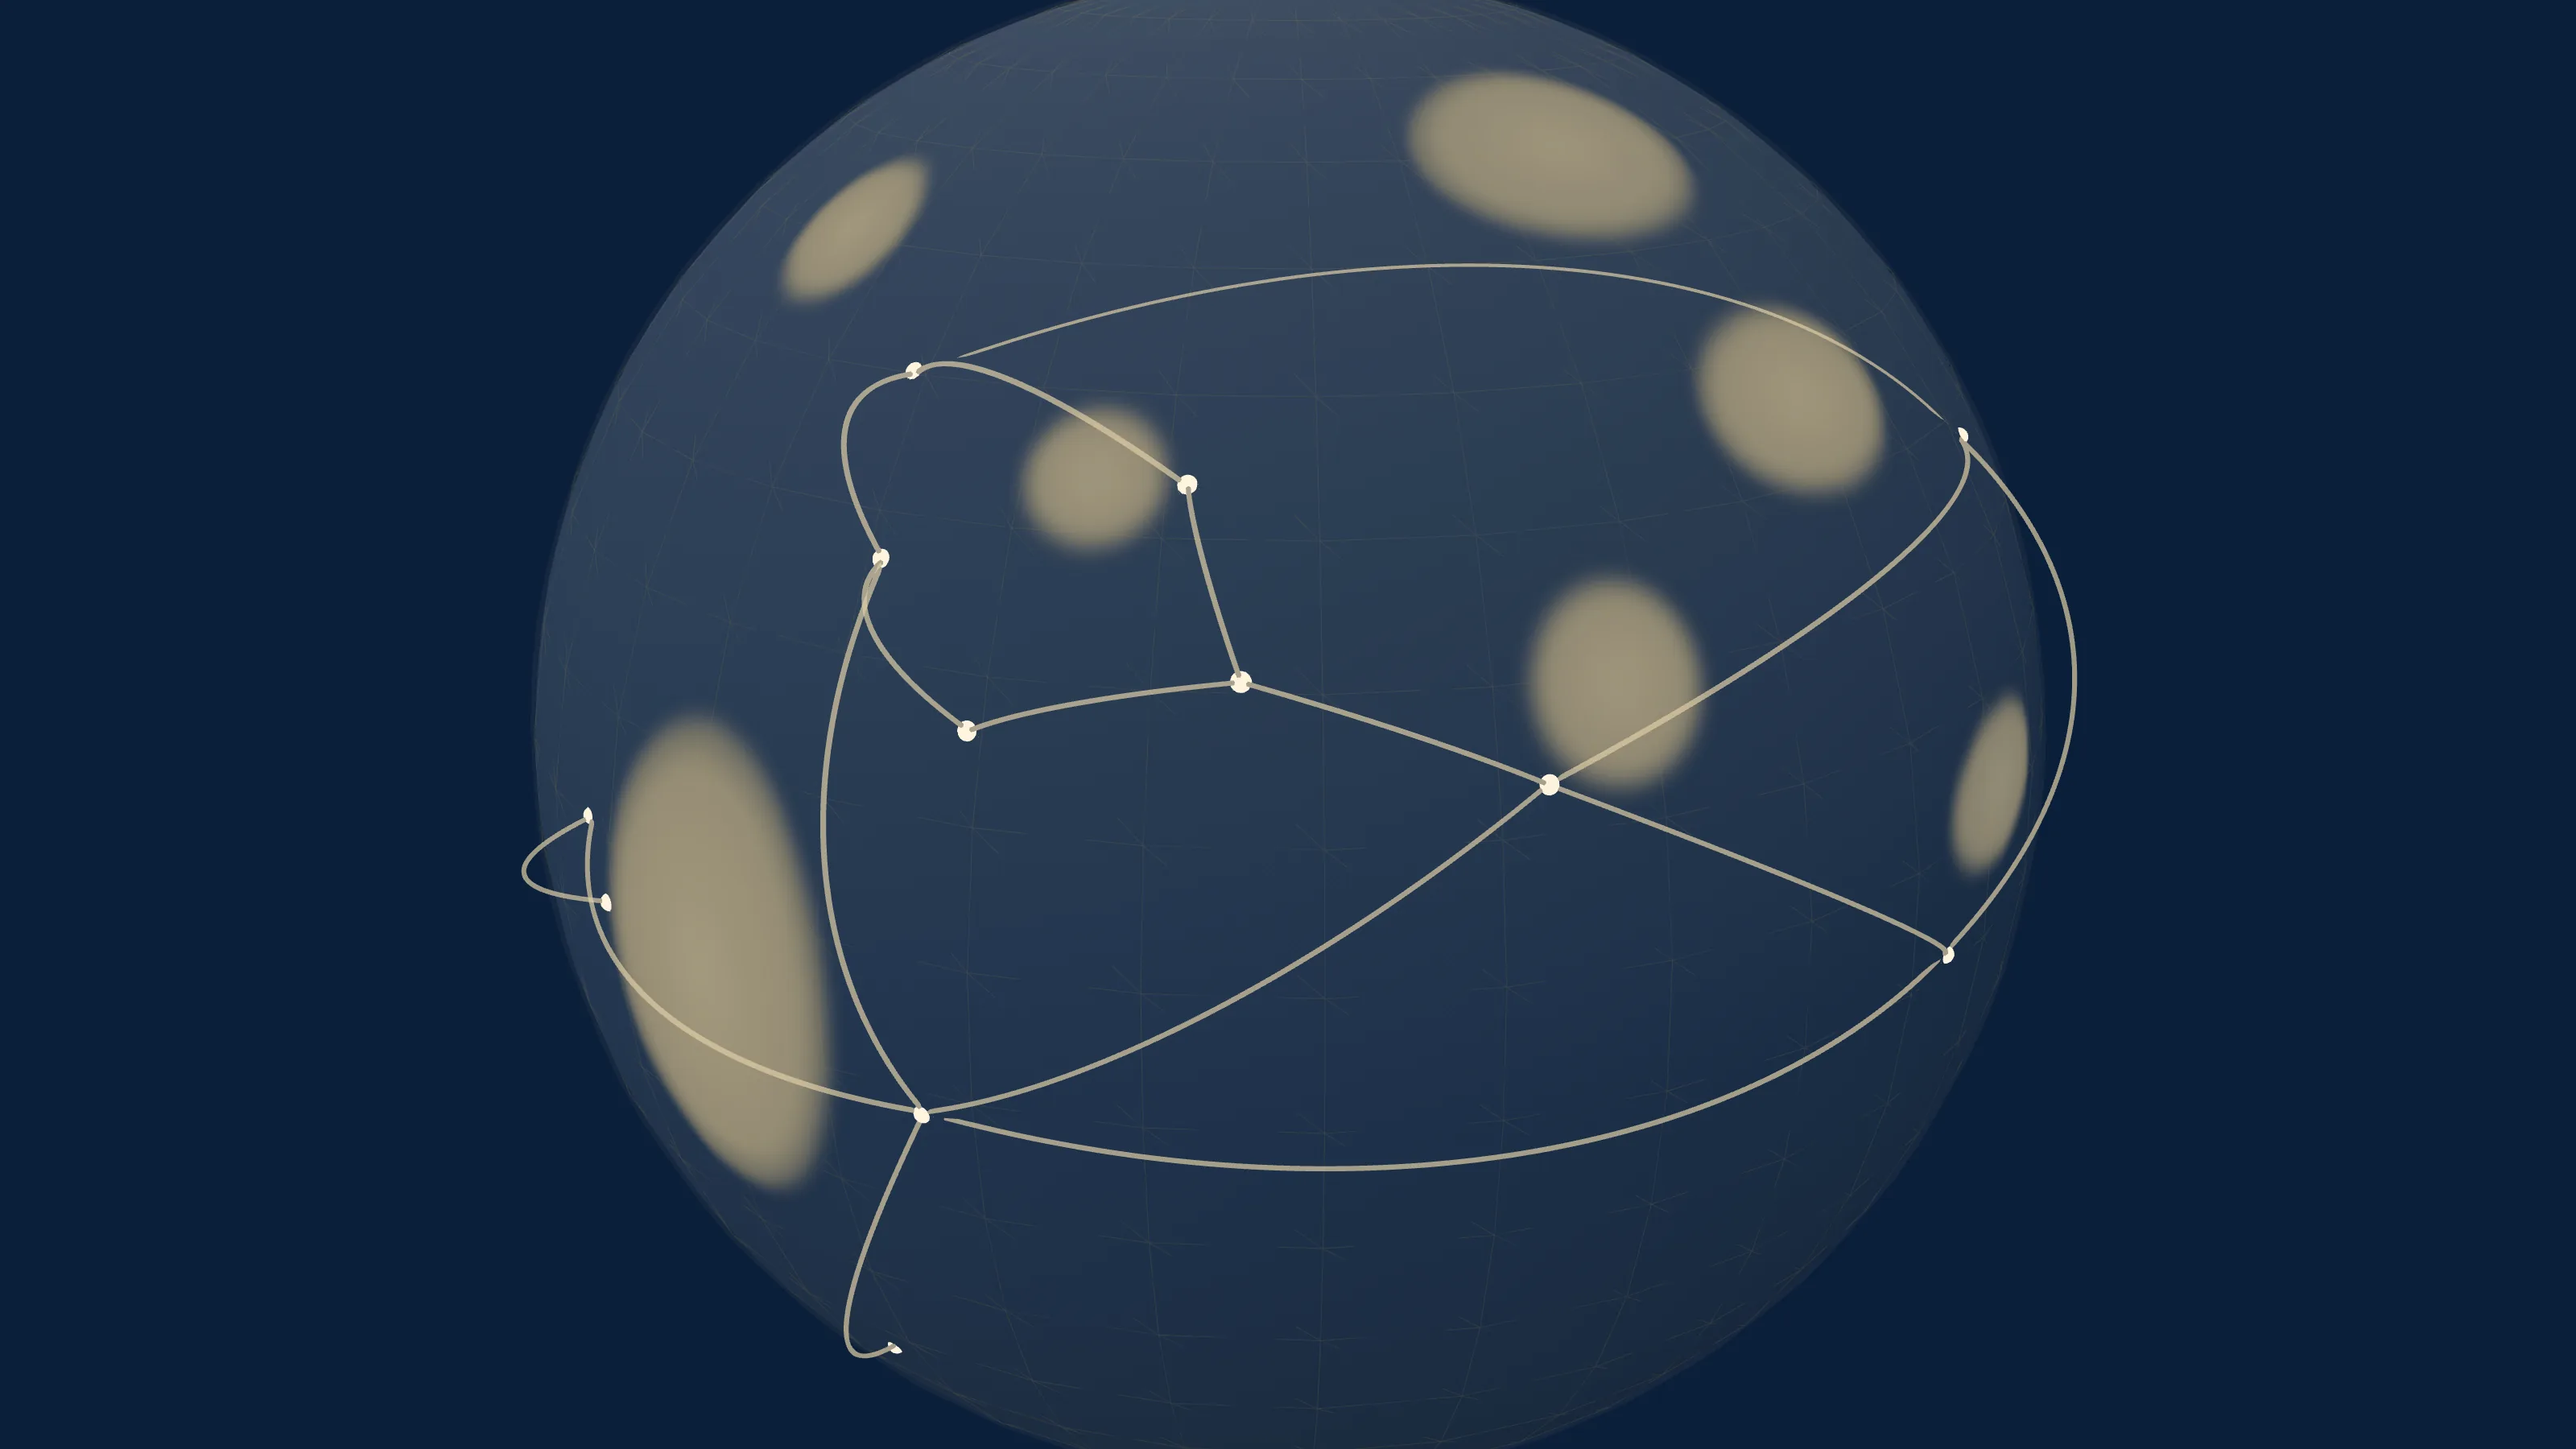
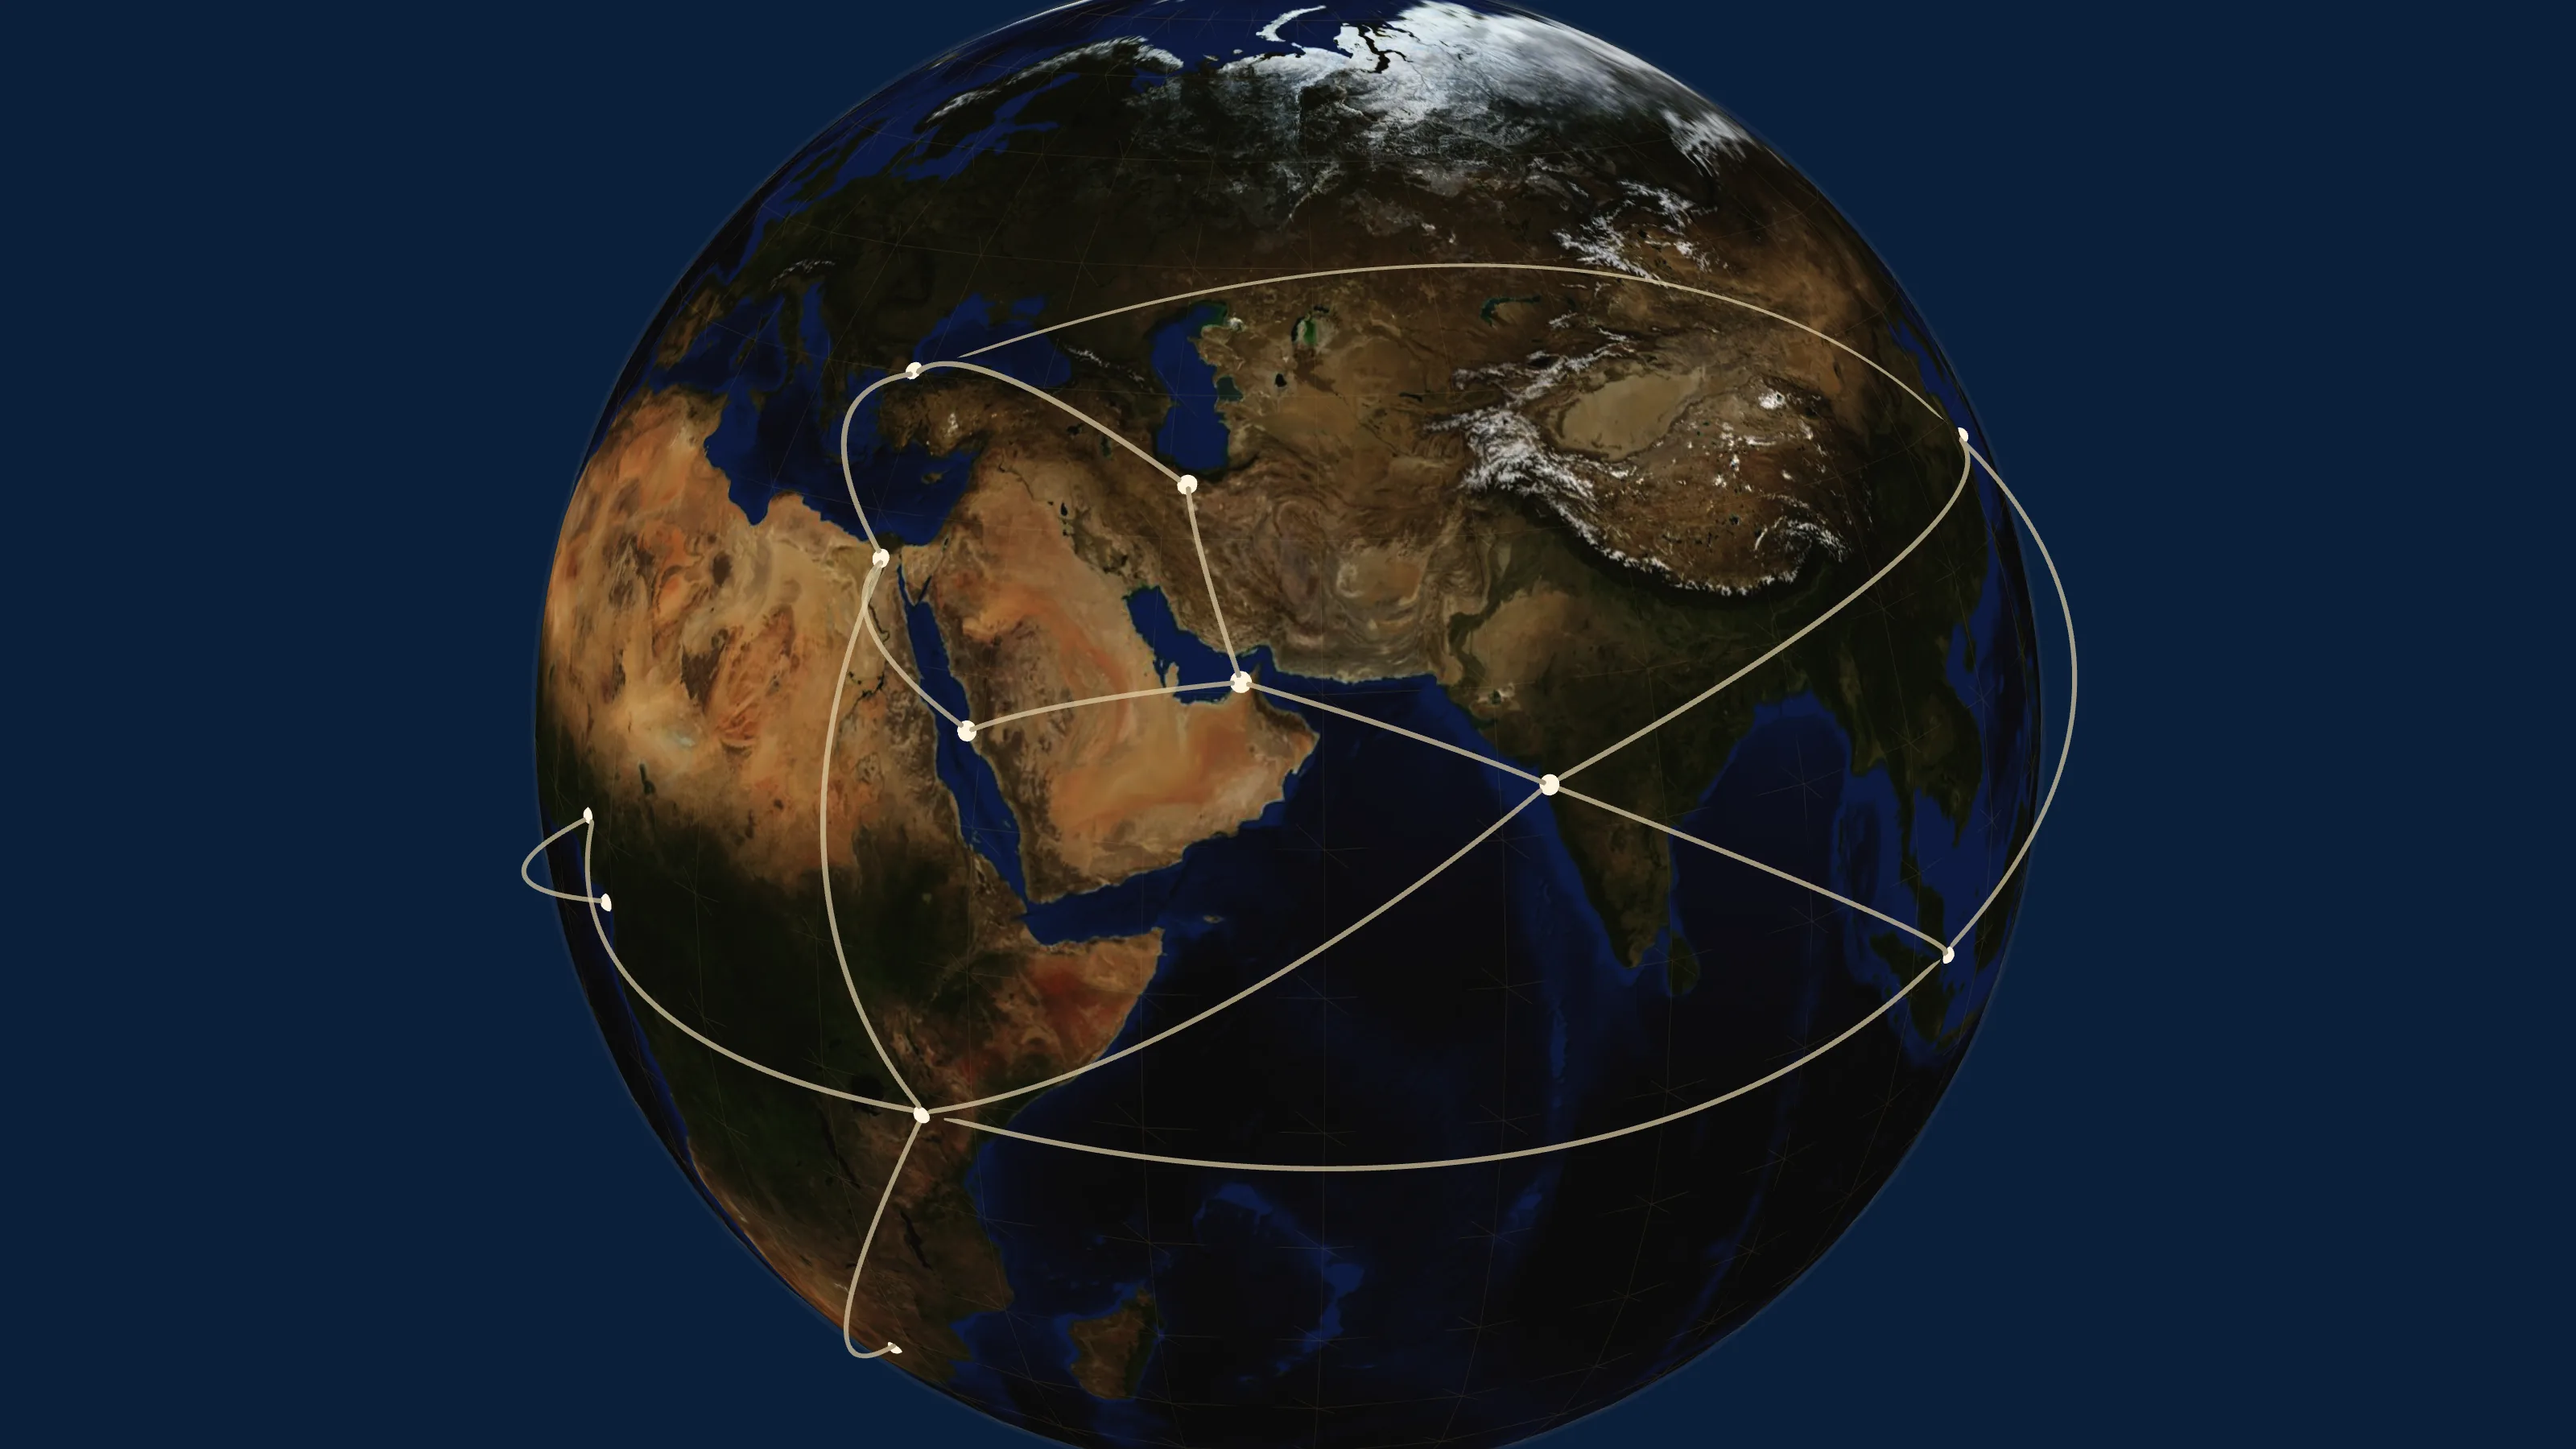
Hero: fix map scope leak to other routes + restore photographic Earth texture
BUG 1 - Scope leak: app/swaqar.css had a plain `body{background:transparent}`
rule. Because swaqar.css loads globally via app/[locale]/layout.tsx, this
applied to every route, not just home — /model and /arms silently inherited
a transparent body even though neither renders the map (they just happened
to fall back to white content behind it, masking the bug). Fixed by scoping
the transparent override to `body.home-map-bg`, a class HomeClient.tsx now
adds on mount and removes on unmount (same classList.add/remove-on-body
pattern useSiteChrome already uses for `.hov`). Verified via fresh loads of
/model and /arms (opaque white body, no .hero-map-frame, no home-map-bg
class) and a client-side nav test (home -> /model correctly drops the class
without a full page reload).

BUG 2 - Wrong visual: read the raw public/hero-map.webp/png files directly
(not just the rendered page) and confirmed the exported image itself only
ever contained the procedural navy/gold-blob texture — ruling out an
overlay obscuring a correct image. The static export had faithfully
captured its source Three.js scene, which used the procedural-only Earth
texture as a leftover consequence of an earlier round's decision to drop
the photographic tier from the LIVE rotating globe (seam/SRI concerns that
don't apply to a one-time build-time export). Re-generated both image
assets from the export tool using the same photographic Blue Marble
texture vetted earlier in this project, with the same camera/rotation
[…]

diff --git a/app/swaqar.css b/app/swaqar.css
@@ -22,11 +22,14 @@ html[lang="ar"]{--serif:var(--font-ar);--sans:var(--font-ar)}
 html[lang="zh"]{--serif:'Noto Sans SC',sans-serif;--sans:'Noto Sans SC',sans-serif}
 *,*::before,*::after{margin:0;padding:0;box-sizing:border-box}
 html{scroll-behavior:smooth}
-/* Transparent by founder decision: the static map (.hero-map-frame, fixed, z-index:-1) reads
-   as a continuous backdrop behind sections with no background of their own (.gap) and in the
-   gaps between sections (.gold-rule dividers etc.), rather than the page defaulting to opaque
-   white everywhere the map isn't explicitly wanted. */
-body{background:transparent;color:var(--body);font-family:var(--sans);-webkit-font-smoothing:antialiased;overflow-x:hidden}
+body{background:var(--parchment);color:var(--body);font-family:var(--sans);-webkit-font-smoothing:antialiased;overflow-x:hidden}
+/* Production fix — scope leak: this used to be a plain `body{background:transparent}` rule,
+   which applied to EVERY route (swaqar.css loads sitewide via app/[locale]/layout.tsx), not
+   just the home page — /model and /arms inherited a transparent body too, even though neither
+   renders the map. Scoped to a class HomeClient.tsx alone adds to <body> on mount and removes
+   on unmount (same classList.add/remove-on-body pattern useSiteChrome already uses for `.hov`),
+   so every other route keeps its normal opaque background with zero trace of the map. */
+body.home-map-bg{background:transparent}
 a{color:inherit;text-decoration:none}
 #cur{position:fixed;top:0;left:0;z-index:9999;pointer-events:none}
 #cur-dot{width:7px;height:7px;background:var(--ink);border-radius:50%;position:absolute;transform:translate(-50%,-50%)}

diff --git a/app/[locale]/HomeClient.tsx b/app/[locale]/HomeClient.tsx
@@ -34,6 +34,16 @@ export default function HomeClient({ locale }: { locale: string }) {
 
   useSiteChrome(lang);
 
+  // Production fix — scope leak: the fixed map background (.hero-map-frame) needs <body> to be
+  // transparent so it shows through .gap and the gaps between sections, but that must only
+  // apply on THIS page — /model and /arms share swaqar.css but render no map at all. Toggling
+  // a class here (removed on unmount) keeps every other route's body at its normal opaque
+  // background, same classList.add/remove-on-body pattern useSiteChrome already uses for `.hov`.
+  useEffect(() => {
+    document.body.classList.add('home-map-bg');
+    return () => document.body.classList.remove('home-map-bg');
+  }, []);
+
   // Stage 3 old-link safety: The Model and Strategic Arms moved off the home page onto their
   // own routes (/model, /arms). #model and #arms were never separate crawlable URLs (nothing
   // for search engines to redirect), but a real person with an old bookmarked or shared

diff --git a/app/[locale]/HeroGlobe.tsx b/app/[locale]/HeroGlobe.tsx
@@ -175,7 +175,7 @@ export default function HeroGlobe({ lang }: { lang: Lang }) {
           ))}
           {cityNodes.map((n) => (
             <g key={n.id}>
-              <circle className="hero-map-halo" cx={n.xPct} cy={n.yPct} r="1.1" />
+              <circle className="hero-map-halo" cx={n.xPct} cy={n.yPct} r="0.5" />
               <circle className="hero-map-dot" cx={n.xPct} cy={n.yPct} r="0.35" />
             </g>
           ))}
